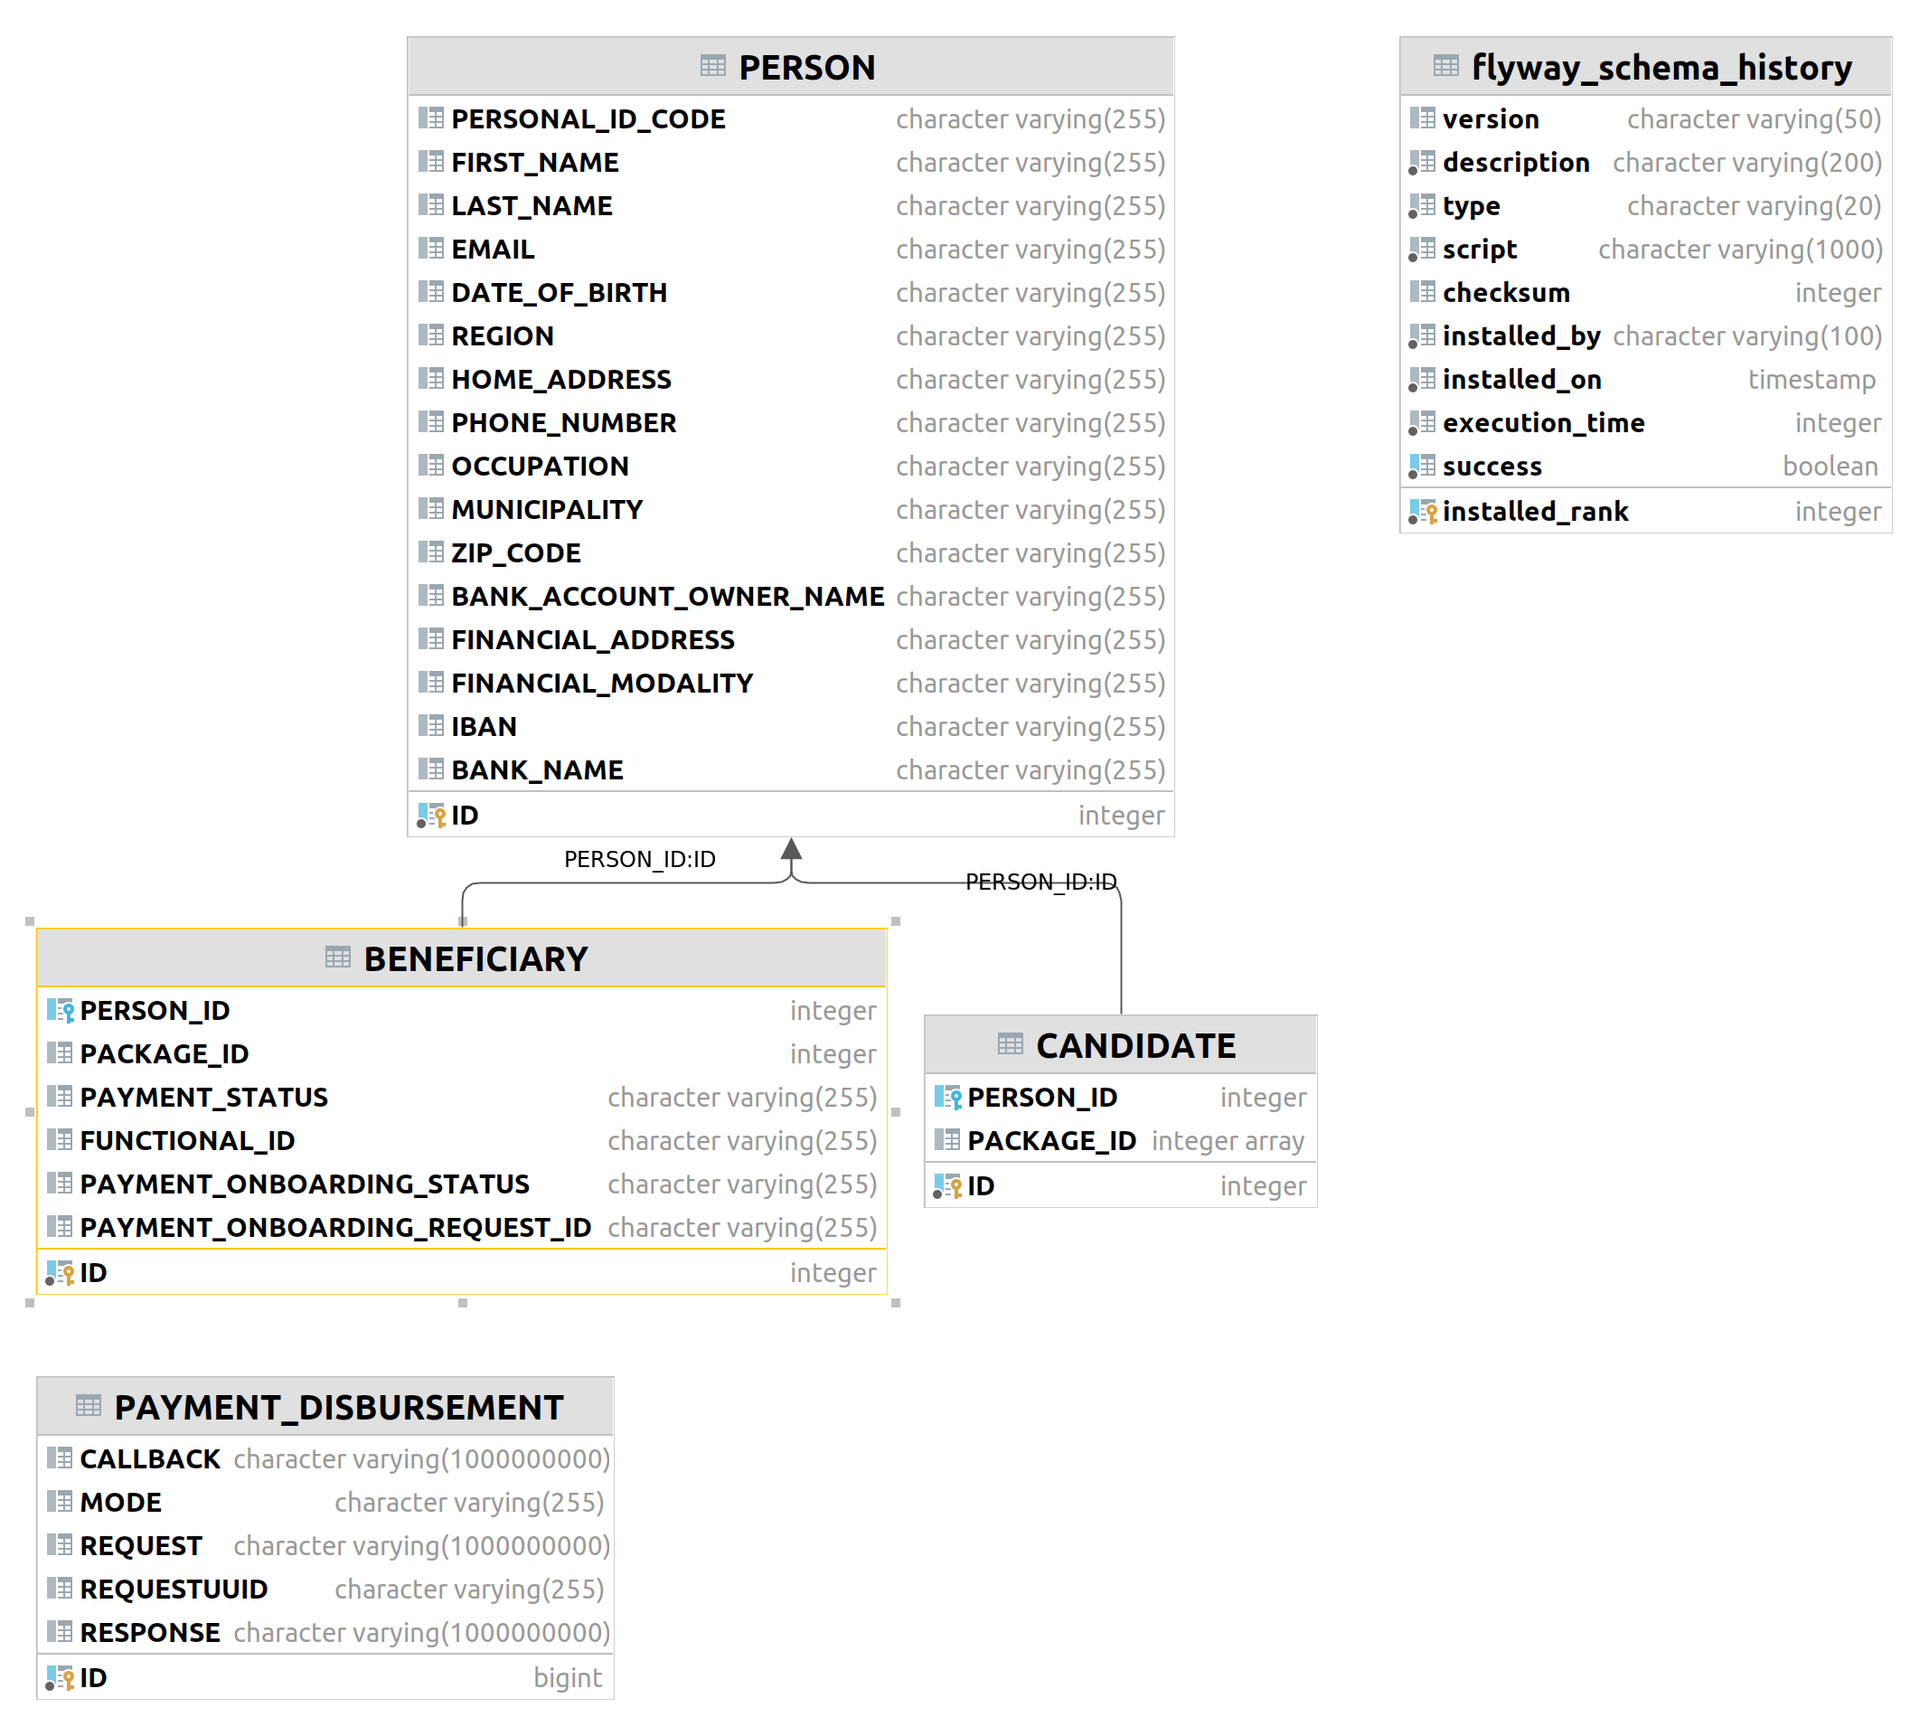
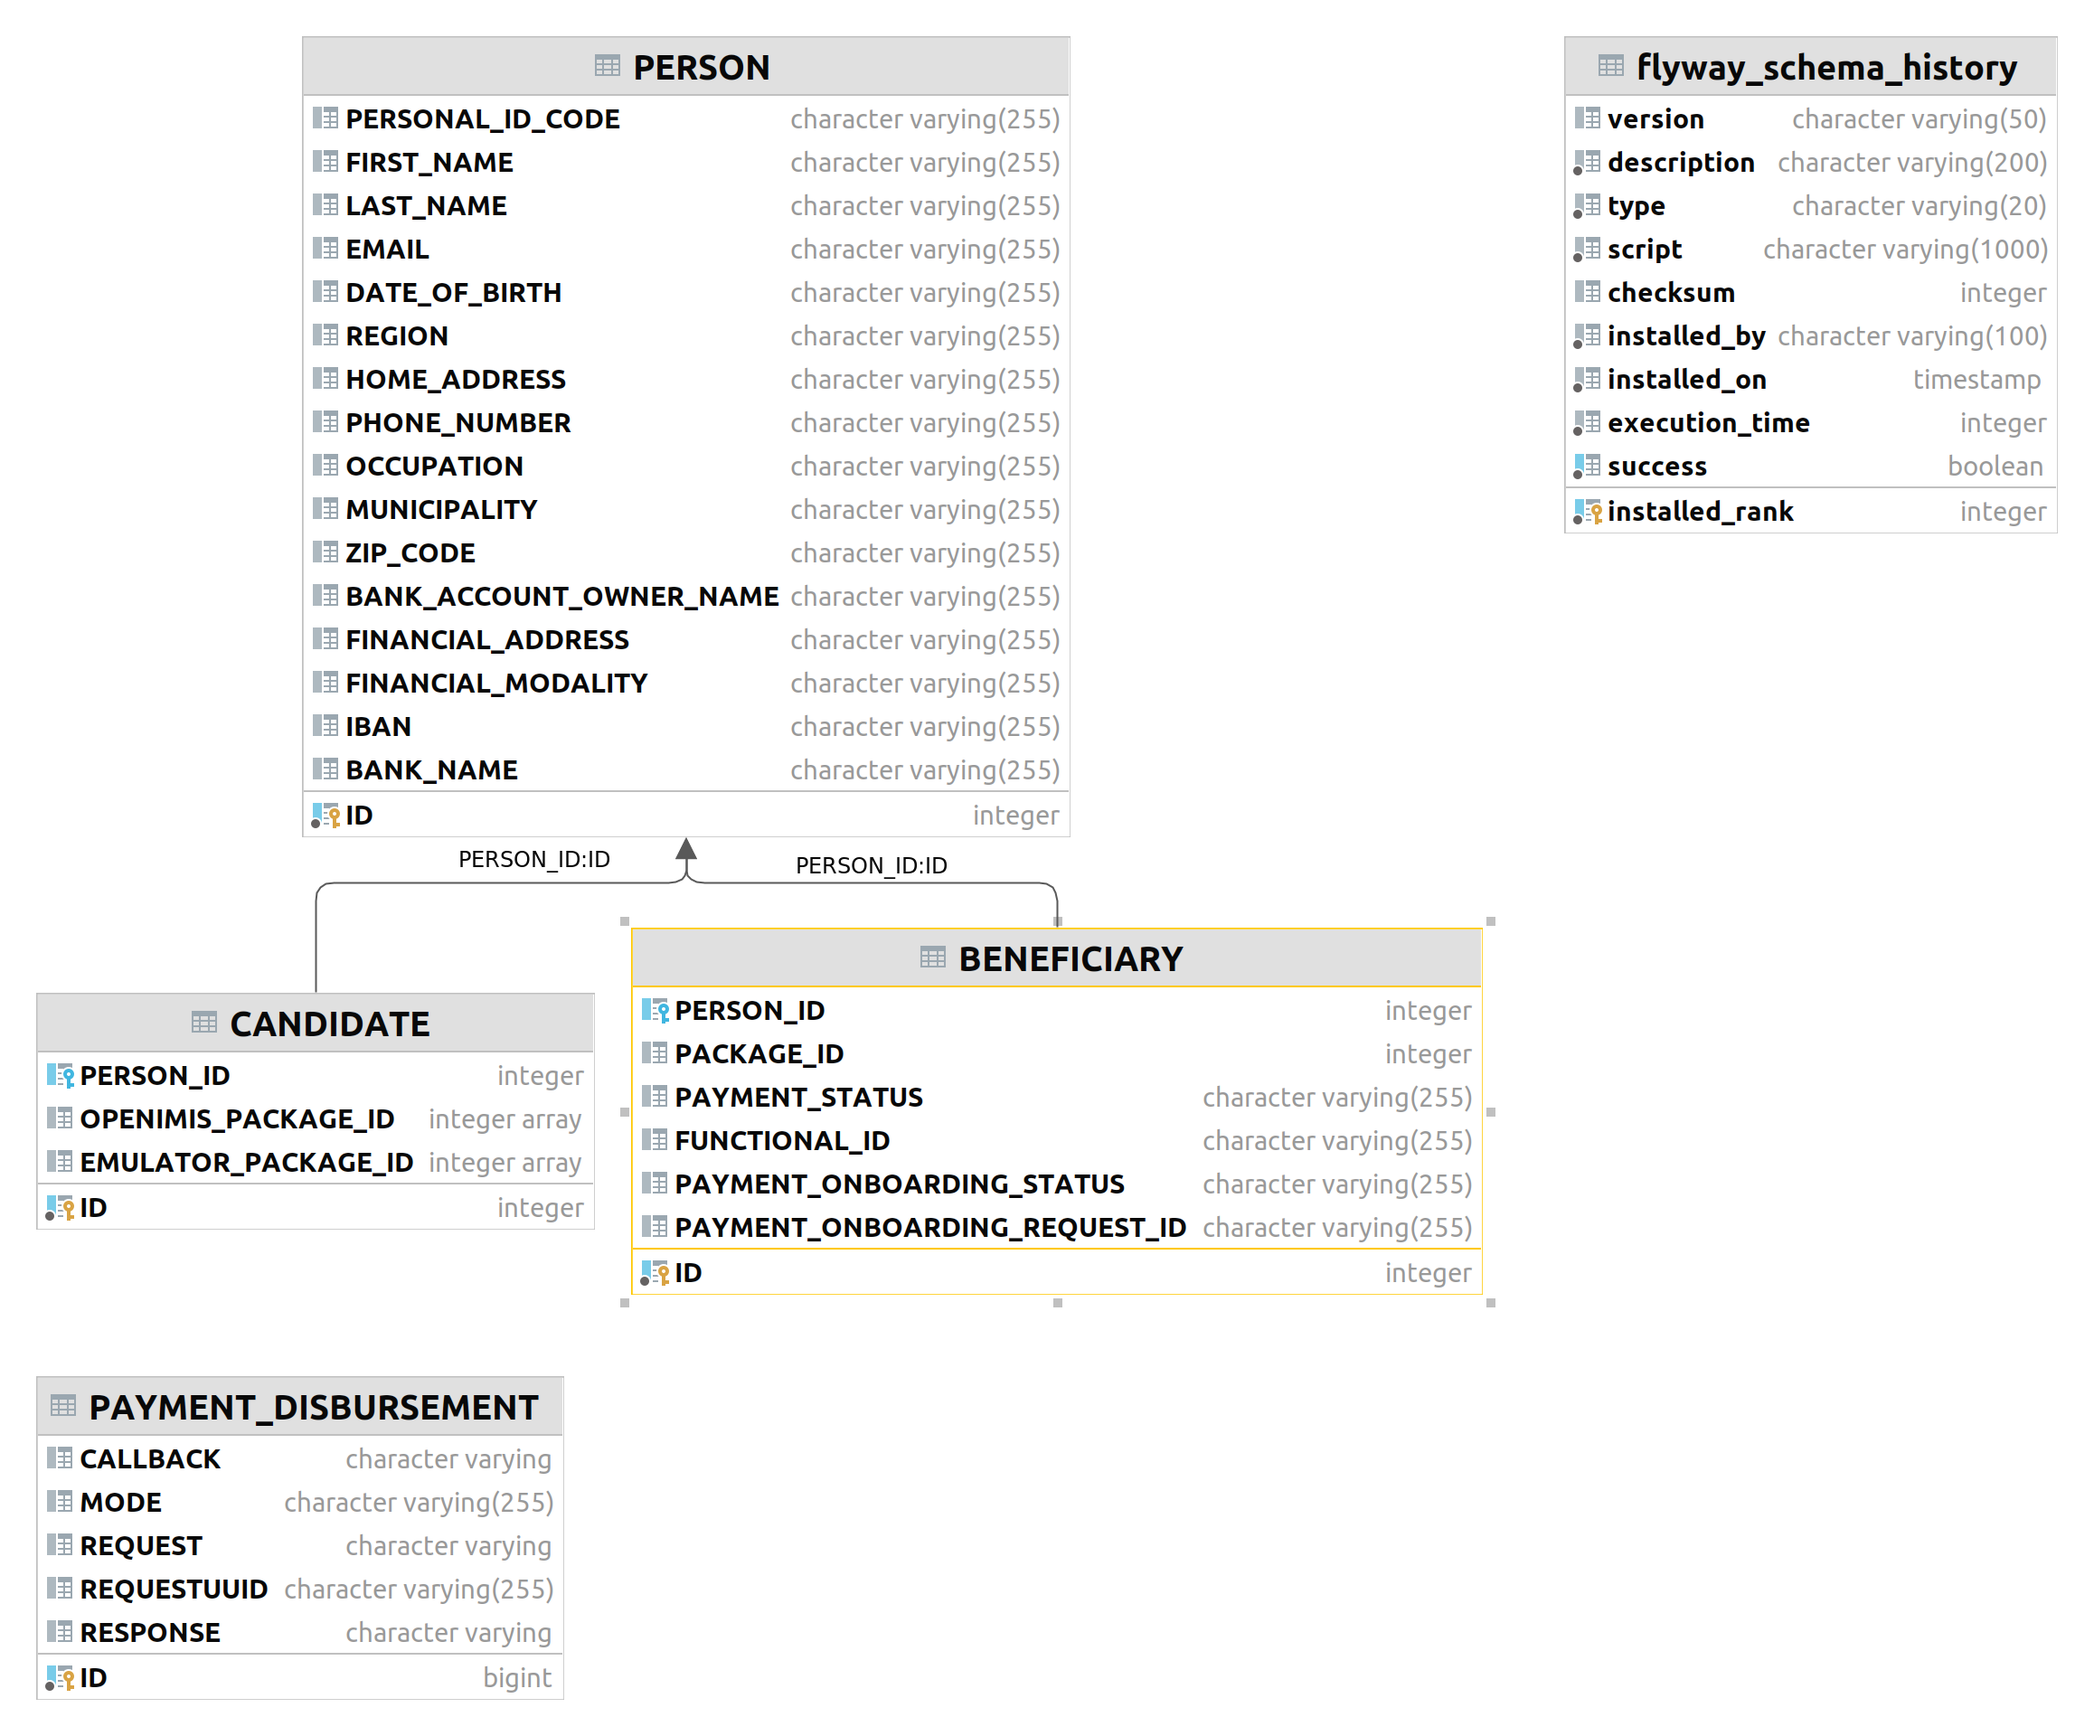
Update data-model diagram and documentation.

Changed region(s): [[0.0, 0.0, 0.7113, 0.75], [0.7113, 0.0, 0.9897, 0.3125], [0.0, 0.7812, 0.3402, 0.9688]]

diff --git a/docs/data-models.md b/docs/data-models.md
@@ -22,28 +22,12 @@ The data model is described in the diagram.
 
 ## Candidates
 
-| Name             |  Type   | Modifiers | Description |
-|:-----------------|:-------:|:----------|:-----------:|
-| id [PK]          | integer | NOT NULL  | Primary key |
-| person_id   [FK] | integer |           |             |
-
-
-## Candidate_package
-| Name              |  Type   | Modifiers |       Description       |
-|:------------------|:-------:|:----------|:-----------------------:|
-| id [PK]           | integer | NOT NULL  |       Primary key       |
-| candidate_id [FK] | integer | NOT NULL  | Candidate id forign key |
-| package_id [FK]   | integer | NOT NULL  |  Package id forign key  |
-
-
-## Packages
-| Name        |          Type          | Modifiers                                                  | Description |
-|:------------|:----------------------:|:-----------------------------------------------------------|:-----------:|
-| id [PK]     |        integer         | NOT NULL                                                   | Primary key |
-| name        | character varying(255) | Name of the package                                        |
-| description |          text          | Description of the package can be taken fom OpenIMIS       |
-| amount      |         float          | The amount of money that should be paid to the beneficiary |
-| currency    | character varying(255) | The currency of the amount                                 |
+| Name                |     Type      | Modifiers |          Description           |
+|:--------------------|:-------------:|:----------|:------------------------------:|
+| id [PK]             |    integer    | NOT NULL  |          Primary key           |
+| person_id   [FK]    |    integer    |           |                                |
+| openimis_package_id | integer array |           | Ids of packages from OpenIMIS  |
+| emulator_package_id | integer array |           | Ids of packages from emulator  |
 
 
 ## Payment Disbursement
